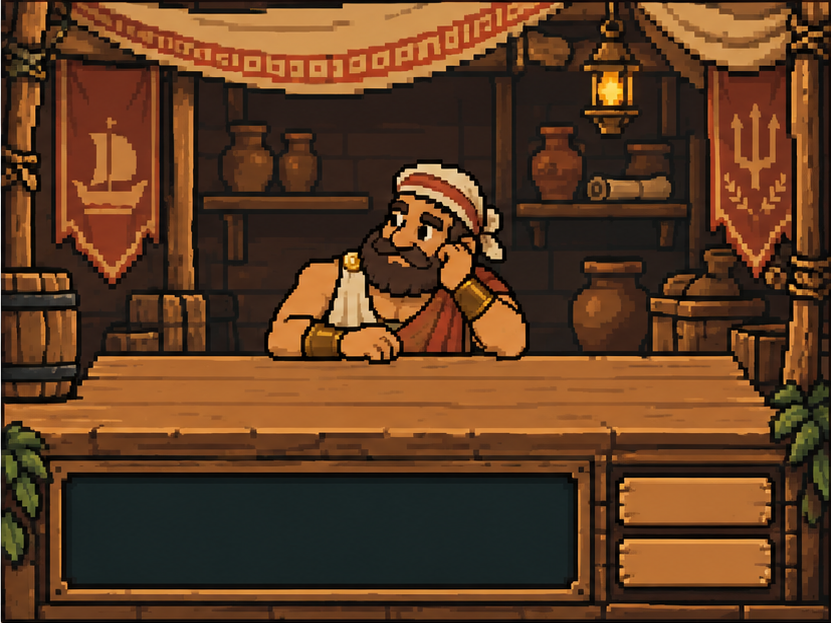
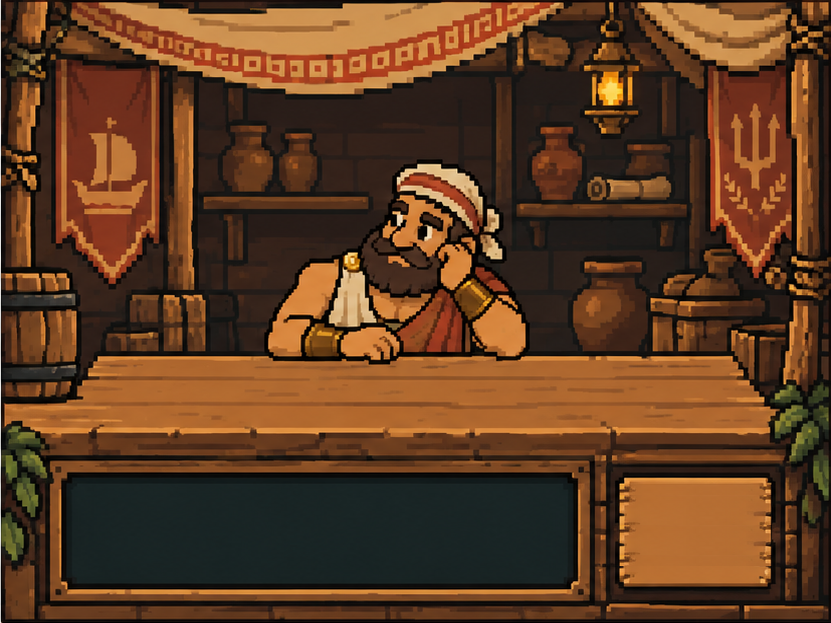
Merge the two shop plaques into one for the Close button

Changed region(s): [[0.722, 0.7929, 0.9326, 0.9149]]

diff --git a/source/core/src/main/com/csse3200/game/components/shop/ShopDisplay.java b/source/core/src/main/com/csse3200/game/components/shop/ShopDisplay.java
@@ -47,8 +47,8 @@ public class ShopDisplay extends UIComponent {
   private static final float ITEM_ICON_SHARE = 0.9f;
 
   // Layout of shop_bg.png as fractions of its width/height: the counter the items are laid out on,
-  // the dark panel that shows the gold and the merchant's messages, and the plaques for the
-  // buttons.
+  // the dark panel that shows the gold and the merchant's messages, and the one tall plaque for the
+  // Close button.
   private static final float SCENE_TABLE_TOP = 0.535f;
   private static final float SCENE_TABLE_HEIGHT = 0.228f;
   // Height of one item's slot. It is about the icon's size, so the icons rest on the tabletop.
@@ -60,7 +60,7 @@ public class ShopDisplay extends UIComponent {
   private static final float SCENE_PANEL_HEIGHT = 0.18f;
   private static final float SCENE_PLAQUE_COLUMN_LEFT = 0.744f;
   private static final float SCENE_PLAQUE_WIDTH = 0.186f;
-  private static final float SCENE_PLAQUE_HEIGHT = 0.077f;
+  private static final float SCENE_PLAQUE_HEIGHT = 0.178f;
   private static final int LISTING_COLUMNS = 6;
   private static final float REFERENCE_HEIGHT = 720f;
   // How much of the screen the shop window fills, leaving a margin around it.
